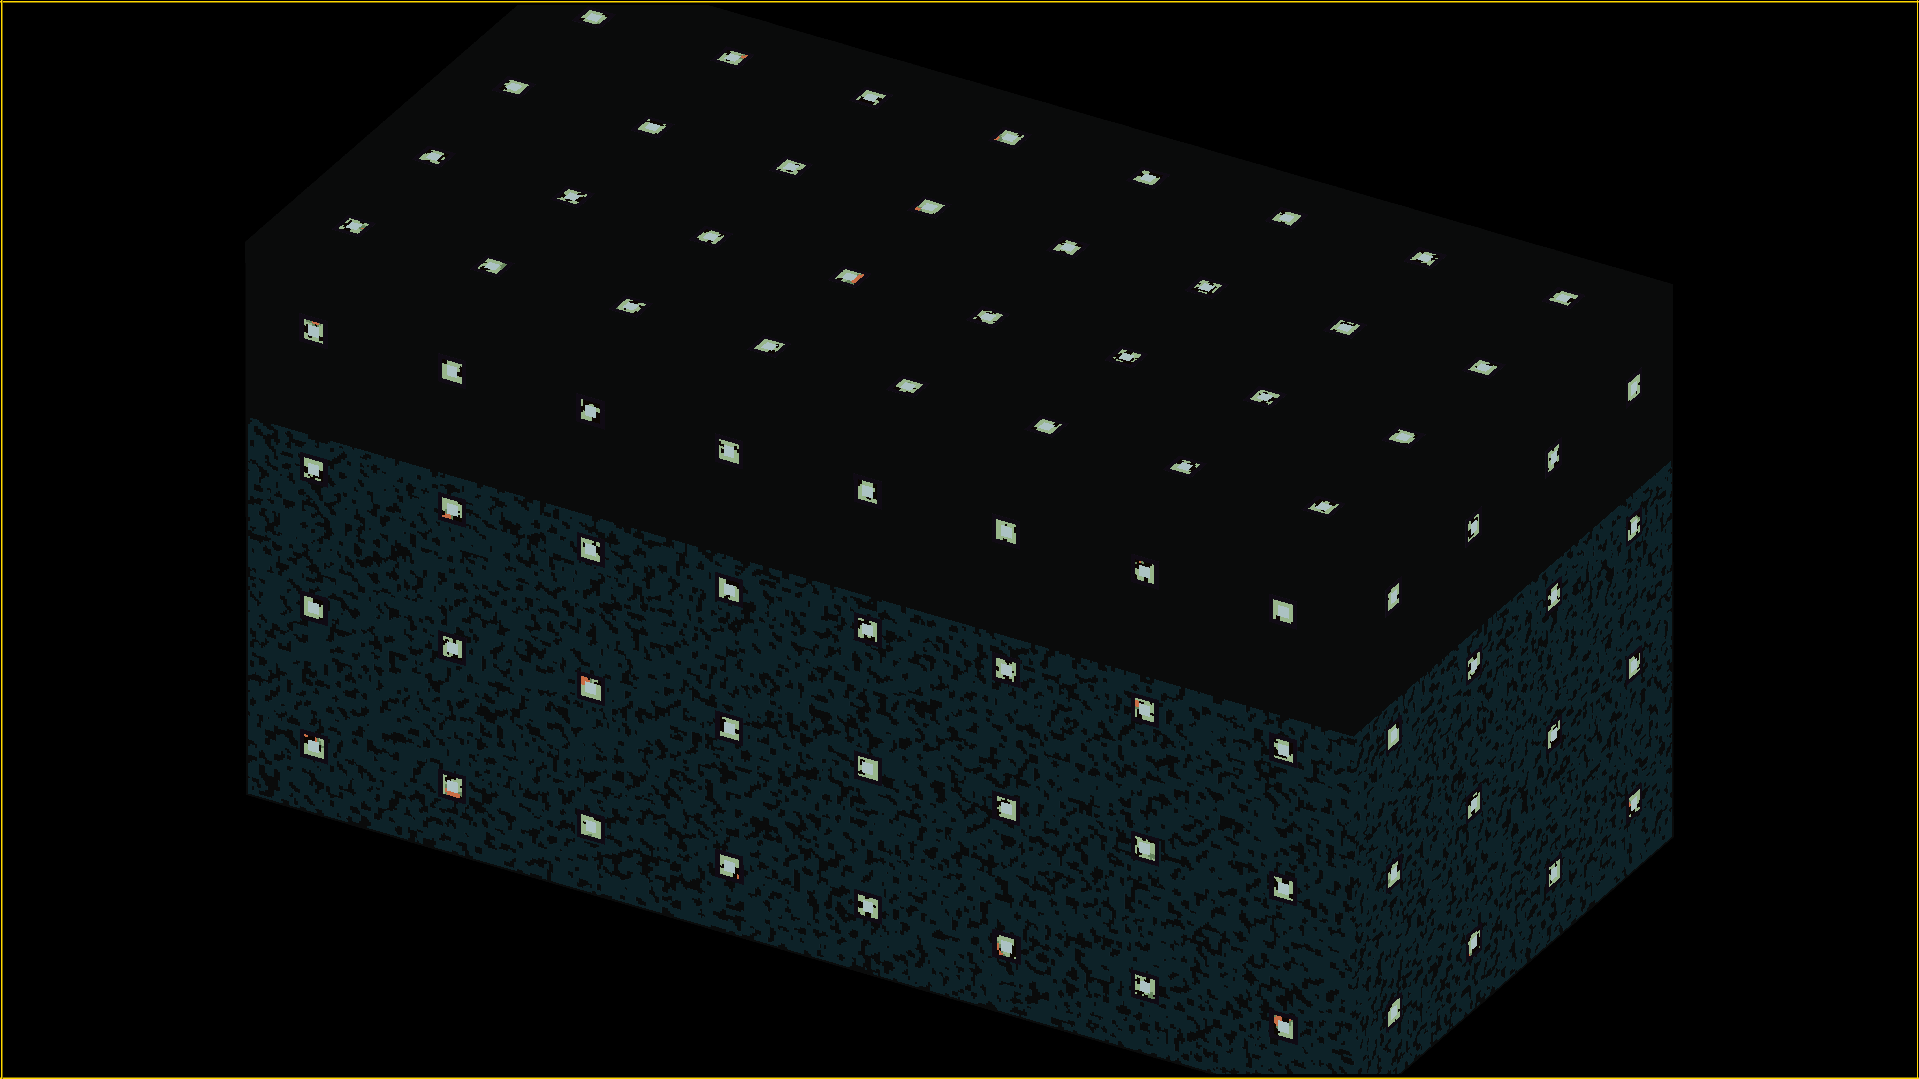
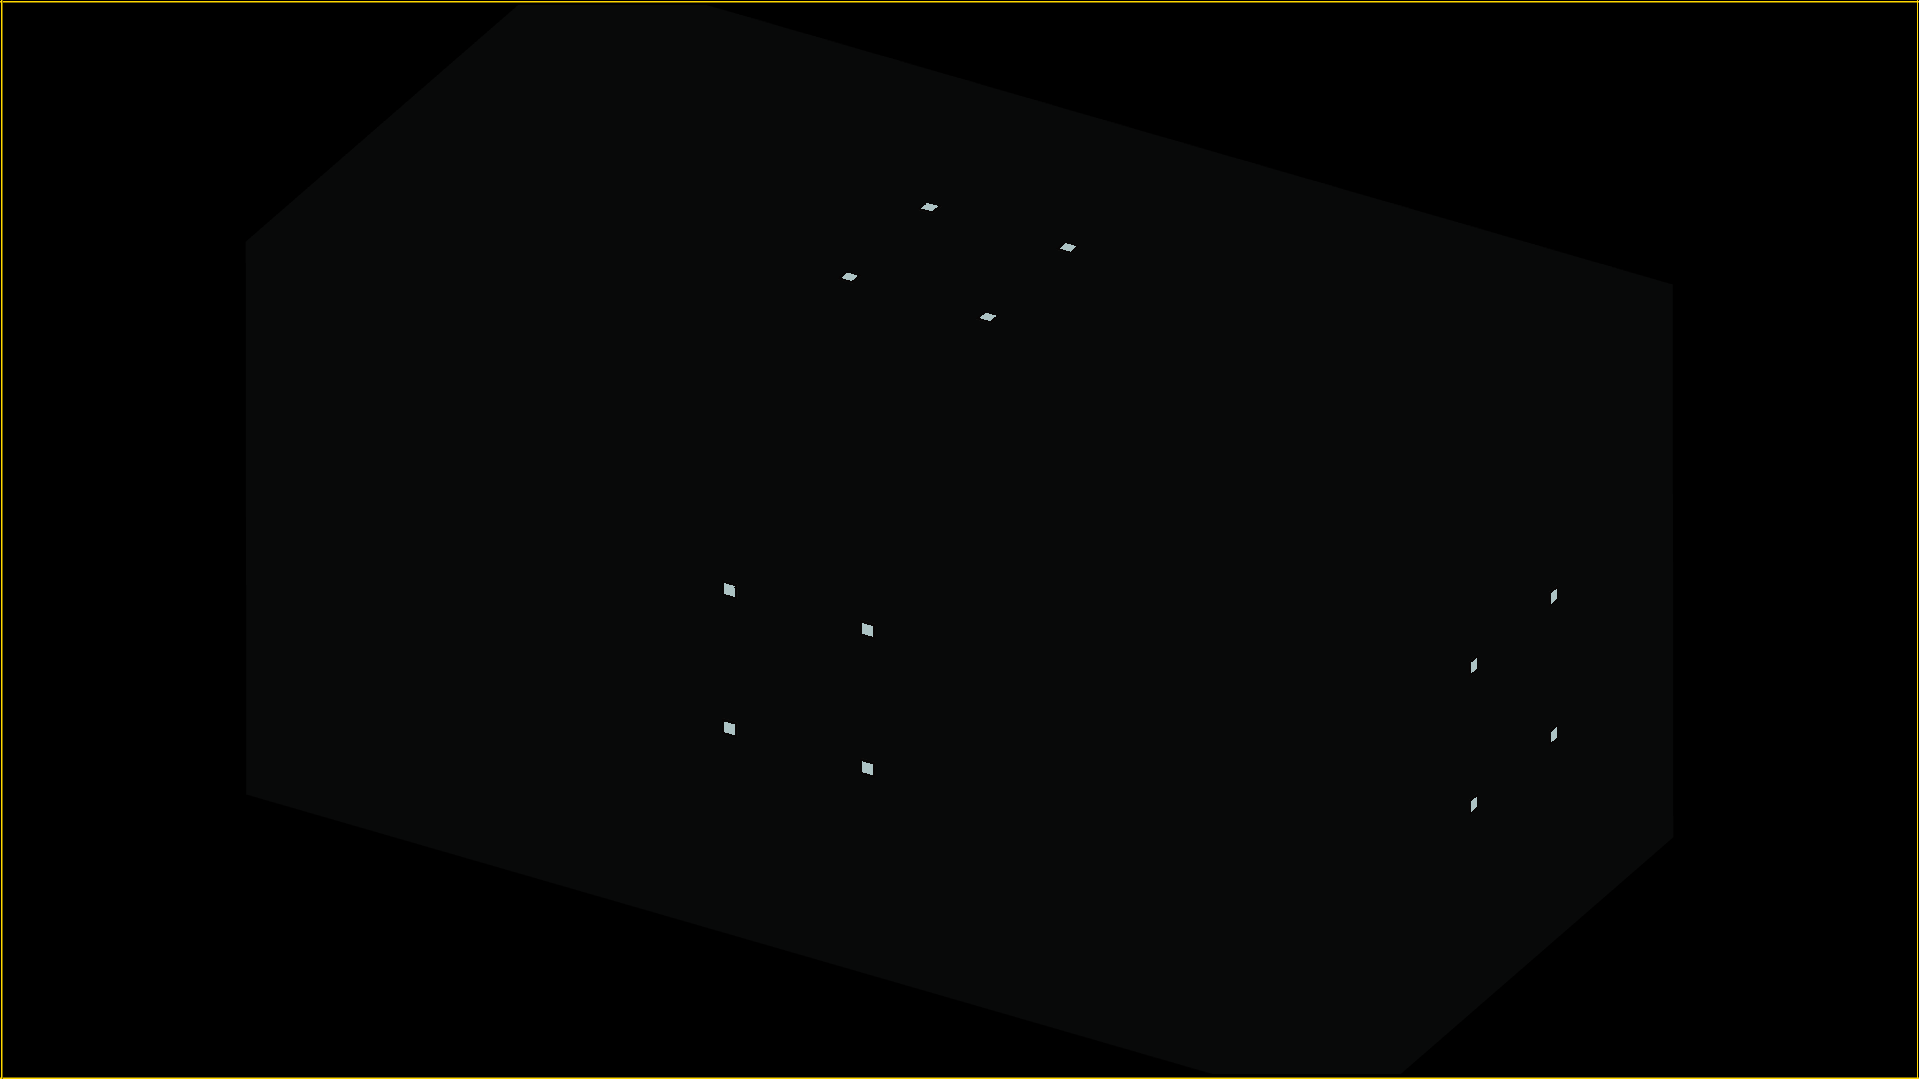
the compass rose

diff --git a/code/gen.cc b/code/gen.cc
@@ -17,6 +17,7 @@ using milliseconds=std::chrono::milliseconds;
 
 
 void draw_axes_and_corners();
+void draw_compass_rose();
 
 
 
@@ -51,179 +52,77 @@ int main()
 
 	vec a,b,c,d,e,f,g,h;
 
-	// note:
-	// 	a : -x, +y, +z
-	// 	b : -x, -y, +z
-	// 	c : +x, +y, +z
-	// 	d : +x, -y, +z
-	// 	e : -x, +y, -z
-	// 	f : -x, -y, -z
-	// 	g : +x, +y, -z
-	// 	h : +x, -y, -z
+
 
 	Vox material1  =  main_block->get_vox(58, 255.0, false);
-	Vox material2  =  main_block->get_vox(27, 255.0, false);
-	Vox material3  =  main_block->get_vox(28, 255.0, false);
-	Vox rust       =  main_block->get_vox(10, 255.0, false);
-	Vox rust2      =  main_block->get_vox( 9,   5.0, false);
-	Vox atmosphere =  main_block->get_vox(58,   3.0, false);
-	Vox water      =  main_block->get_vox(40,  20.0, false);
-	Vox shroud     =  main_block->get_vox(49,  20.0, false);
+	Vox material2  =  main_block->get_vox(62,  20.0, false);
 
-
-
-
-	cout << endl << "starting " << endl;
-
-
-
-
-	for(int x = 31; x < 512; x+=64)
-	{
-		for(int y = 31; y < 256; y+=64)
-		{
-
-			a = vec( x-7, y+7, 256);
-			b = vec( x-7, y-7, 256);
-			c = vec( x+7, y+7, 256);
-			d = vec( x+7, y-7, 256);
-			e = vec( x-7, y+7, 0);
-			f = vec( x-7, y-7, 0);
-			g = vec( x+7, y+7, 0);
-			h = vec( x+7, y-7, 0);
-
-			main_block->draw_quadrilateral_hexahedron( a, b, c, d, e, f, g, h, shroud);
-
-		}
-	}
-
-	cout << "xy plane done" << endl;
-
-	for(int x = 31; x < 512; x+=64)
-	{
-		for(int z = 31; z < 256; z+=64)
-		{
-
-			a = vec( x-7, 256, z+7);
-			b = vec( x-7,   0, z+7);
-			c = vec( x+7, 256, z+7);
-			d = vec( x+7,   0, z+7);
-			e = vec( x-7, 256, z-7);
-			f = vec( x-7,   0, z-7);
-			g = vec( x+7, 256, z-7);
-			h = vec( x+7,   0, z-7);
-
-			main_block->draw_quadrilateral_hexahedron( a, b, c, d, e, f, g, h, shroud);
-
-		}
-	}
-
-	cout << "xz plane done" << endl;
-
-	for(int y = 31; y < 256; y+=64)
-	{
-		for(int z = 31; z < 256; z+=64)
-		{
-
-			a = vec(   0, y+7, z+7);
-			b = vec(   0, y-7, z+7);
-			c = vec( 512, y+7, z+7);
-			d = vec( 512, y-7, z+7);
-			e = vec(   0, y+7, z-7);
-			f = vec(   0, y-7, z-7);
-			g = vec( 512, y+7, z-7);
-			h = vec( 512, y-7, z-7);
-
-			main_block->draw_quadrilateral_hexahedron( a, b, c, d, e, f, g, h, shroud);
-
-		}
-	}
-
-	cout << "yz plane done" << endl;
-
-
-	cout << endl << "moving to outer layers" << endl << endl;
 
 	//OUTER LAYERS
 
-	for(int x = 31; x < 512; x+=64)
+	for(int x = 223; x < 288; x+=64)
 	{
-		for(int y = 31; y < 256; y+=64)
+		for(int y = 95; y < 160; y+=64)
 		{
 
-			a = vec( x-5, y+5, 256);
-			b = vec( x-5, y-5, 256);
-			c = vec( x+5, y+5, 256);
-			d = vec( x+5, y-5, 256);
-			e = vec( x-5, y+5, 0);
-			f = vec( x-5, y-5, 0);
-			g = vec( x+5, y+5, 0);
-			h = vec( x+5, y-5, 0);
+			a = vec( x-4, y+4, 256);
+			b = vec( x-4, y-4, 256);
+			c = vec( x+4, y+4, 256);
+			d = vec( x+4, y-4, 256);
+			e = vec( x-4, y+4, 0);
+			f = vec( x-4, y-4, 0);
+			g = vec( x+4, y+4, 0);
+			h = vec( x+4, y-4, 0);
 
 			main_block->draw_quadrilateral_hexahedron( a, b, c, d, e, f, g, h, material2);
 
 		}
 	}
 
-	cout << "xy plane done" << endl;
-
-	for(int x = 31; x < 512; x+=64)
+	for(int x = 223; x < 288; x+=64)
 	{
-		for(int z = 31; z < 256; z+=64)
+		for(int z = 95; z < 160; z+=64)
 		{
 
-			a = vec( x-5, 256, z+5);
-			b = vec( x-5,   0, z+5);
-			c = vec( x+5, 256, z+5);
-			d = vec( x+5,   0, z+5);
-			e = vec( x-5, 256, z-5);
-			f = vec( x-5,   0, z-5);
-			g = vec( x+5, 256, z-5);
-			h = vec( x+5,   0, z-5);
+			a = vec( x-4, 256, z+4);
+			b = vec( x-4,   0, z+4);
+			c = vec( x+4, 256, z+4);
+			d = vec( x+4,   0, z+4);
+			e = vec( x-4, 256, z-4);
+			f = vec( x-4,   0, z-4);
+			g = vec( x+4, 256, z-4);
+			h = vec( x+4,   0, z-4);
 
 			main_block->draw_quadrilateral_hexahedron( a, b, c, d, e, f, g, h, material2);
 
 		}
 	}
 
-	cout << "xz plane done" << endl;
-
-	for(int y = 31; y < 256; y+=64)
+	for(int y = 95; y < 160; y+=64)
 	{
-		for(int z = 31; z < 256; z+=64)
+		for(int z = 95; z < 160; z+=64)
 		{
 
-			a = vec(   0, y+5, z+5);
-			b = vec(   0, y-5, z+5);
-			c = vec( 512, y+5, z+5);
-			d = vec( 512, y-5, z+5);
-			e = vec(   0, y+5, z-5);
-			f = vec(   0, y-5, z-5);
-			g = vec( 512, y+5, z-5);
-			h = vec( 512, y-5, z-5);
+			a = vec(   0, y+4, z+4);
+			b = vec(   0, y-4, z+4);
+			c = vec( 512, y+4, z+4);
+			d = vec( 512, y-4, z+4);
+			e = vec(   0, y+4, z-4);
+			f = vec(   0, y-4, z-4);
+			g = vec( 512, y+4, z-4);
+			h = vec( 512, y-4, z-4);
 
 			main_block->draw_quadrilateral_hexahedron( a, b, c, d, e, f, g, h, material2);
 
 		}
 	}
-
-	cout << "yz plane done" << endl;
-
-
-
-
-
-
-
-
-	cout << endl << "moving to inner layers" << endl << endl;
 
 
 	//INNER LAYERS
 
-	for(int x = 31; x < 512; x+=64)
+	for(int x = 223; x < 288; x+=64)
 	{
-		for(int y = 31; y < 256; y+=64)
+		for(int y = 95; y < 160; y+=64)
 		{
 
 			a = vec( x-3, y+3, 256);
@@ -240,11 +139,9 @@ int main()
 		}
 	}
 
-	cout << "xy plane done" << endl;
-
-	for(int x = 31; x < 512; x+=64)
+	for(int x = 223; x < 288; x+=64)
 	{
-		for(int z = 31; z < 256; z+=64)
+		for(int z = 95; z < 160; z+=64)
 		{
 
 			a = vec( x-3, 256, z+3);
@@ -261,11 +158,9 @@ int main()
 		}
 	}
 
-	cout << "xz plane done" << endl;
-
-	for(int y = 31; y < 256; y+=64)
+	for(int y = 95; y < 160; y+=64)
 	{
-		for(int z = 31; z < 256; z+=64)
+		for(int z = 95; z < 160; z+=64)
 		{
 
 			a = vec(   0, y+3, z+3);
@@ -282,53 +177,32 @@ int main()
 		}
 	}
 
-	cout << "yz plane done" << endl << endl;;
-
-	main_block->mask_by_state(27);
-
-	main_block->mask_invert_mask();
-
-	main_block->draw_perlin_noise( 0.1, 0.3, material3);
-
-	main_block->draw_perlin_noise( 0.1, 0.25, rust);
-
-	main_block->draw_perlin_noise( 0.3, 0.4, rust2);
-
-	main_block->mask_unmask_all();
-
 	main_block->mask_all_nonzero();
 
-	main_block->draw_sphere(vec(255.5, 127.5, 127.5), 1000, atmosphere);
-
-	a = vec(   0,   175, 256);
-	b = vec(   0,     0, 256);
-	c = vec( 512,   175, 256);
-	d = vec( 512,     0, 256);
-	e = vec(   0,   175, 0);
-	f = vec(   0,     0, 0);
-	g = vec( 512,   175, 0);
-	h = vec( 512,     0, 0);
-
-	main_block->draw_quadrilateral_hexahedron( a, b, c, d, e, f, g, h, water);
+	main_block->draw_sphere(vec(255.5, 127.5, 127.5), 1000, main_block->get_vox(58, 1.0, false));
 
 	main_block->mask_unmask_all();
 
-	main_block->mask_by_state(40);
 
-	main_block->mask_invert_mask();
 
-	main_block->draw_perlin_noise( 0.3, 0.4, atmosphere);
+
+
 
 
 
 
 
 //FRAMING
-  bool draw_axes = false;
-  if( draw_axes )
+  if( false )
   {
     draw_axes_and_corners();
   }
+
+//COMPASS ROSE
+	if(true)
+	{
+		draw_compass_rose();
+	}
 
 
 
@@ -396,4 +270,38 @@ void draw_axes_and_corners()
   main_block->draw_sphere(vec(init_x-1,0,init_z-1), 3, main_block->get_vox(62,255,false));
   main_block->draw_sphere(vec(init_x-1,init_y-1,init_z-1), 3, main_block->get_vox(62,255,false));
 
+}
+
+void draw_compass_rose()
+{
+	//the compass rose
+
+	main_block->draw_ellipsoid(vec(255.5, 127.5, 127.5), vec(63, 13, 13), main_block->get_vox(62, 20.0, false));
+	main_block->draw_ellipsoid(vec(255.5, 127.5, 127.5), vec(13, 63, 13), main_block->get_vox(62, 20.0, false));
+	main_block->draw_ellipsoid(vec(255.5, 127.5, 127.5), vec(13, 13, 63), main_block->get_vox(62, 20.0, false));
+
+	main_block->draw_ellipsoid(vec(255.5, 127.5, 127.5), vec(60, 10, 10), main_block->get_vox( 1, 255.0, false));
+	main_block->draw_ellipsoid(vec(255.5, 127.5, 127.5), vec(10, 60, 10), main_block->get_vox(23, 255.0, false));
+	main_block->draw_ellipsoid(vec(255.5, 127.5, 127.5), vec(10, 10, 60), main_block->get_vox(33, 255.0, false));
+
+	// note:
+	// 	a : -x, +y, +z
+	// 	b : -x, -y, +z
+	// 	c : +x, +y, +z
+	// 	d : +x, -y, +z
+	// 	e : -x, +y, -z
+	// 	f : -x, -y, -z
+	// 	g : +x, +y, -z
+	// 	h : +x, -y, -z
+
+	vec a = vec( 255.5-20, 127.5+20, 127.5+20);
+	vec b = vec( 255.5-20, 127.5-20, 127.5+20);
+	vec c = vec( 255.5+20, 127.5+20, 127.5+20);
+	vec d = vec( 255.5+20, 127.5-20, 127.5+20);
+	vec e = vec( 255.5-20, 127.5+20, 127.5-20);
+	vec f = vec( 255.5-20, 127.5-20, 127.5-20);
+	vec g = vec( 255.5+20, 127.5+20, 127.5-20);
+	vec h = vec( 255.5+20, 127.5-20, 127.5-20);
+
+	main_block->draw_quadrilateral_hexahedron( a, b, c, d, e, f, g, h, main_block->get_vox(58, 1.0, false));
 }
